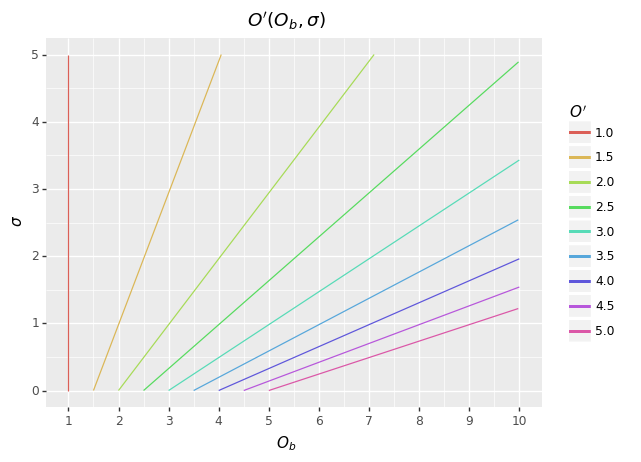
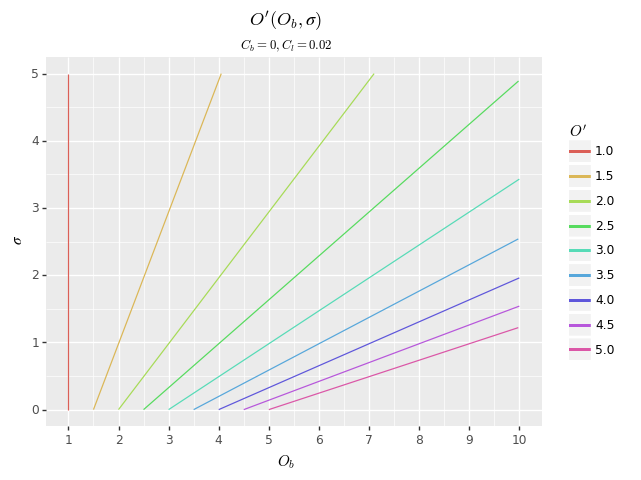
Editing.

diff --git a/images/matched-betting/plots.py b/images/matched-betting/plots.py
@@ -6,12 +6,16 @@ import numpy as np
 import pandas as pd
 import plotnine as gg
 import warnings
+import matplotlib as mpl
 
 # defaults
 Cb = 0
 Cl = 0.02
 
+
 C = (1 - Cb) * (1 - Cl)
+
+commission_string = 'C_b = %g, C_l = %g' % (Cb, Cl)
 
 # math
 
@@ -56,6 +60,9 @@ def Opr_Pf(Opr):
 def dollars(s):
     return '$%s$' % (s,)
 
+def titles(t, s=commission_string): # title, hacky subtitle
+    return gg.ggtitle('$%s$\n${}_{%s}$' % (t, s))
+
 def colors(name):
     return gg.scale_color_hue(name=dollars(name),
                               labels=lambda l: ['%.1f' % x for x in l])
@@ -88,13 +95,16 @@ def concat_map(f, cat, l):
     return ret
 
 def main():
+    mpl.rc('mathtext', fontset='cm')
+
     warnings.filterwarnings('ignore', r'geom_\w+: Removed \d+ rows')
     warnings.filterwarnings('ignore', r'Saving .+ x .+ in image')
     warnings.filterwarnings('ignore', r'Filename: .+\.png')
 
     df = concat_map(Pf_Ob_Ol, 'P_f', np.linspace(0.1, 1, 10))
     (gg.ggplot(df, gg.aes('O_b', 'O_l', group='P_f', color='P_f'))
-     + gg.ggtitle(dollars('P_f(O_b, O_l)'))
+     # + gg.ggtitle('$P_f(O_b, O_l)$\n${}_{C_b = 0, C_l = 0.02}$')
+     + titles('P_f(O_b, O_l)')
      + colors('P_f')
      + labs('O_b', 'O_l')
      + limits((1, 10))
@@ -105,7 +115,7 @@ def main():
 
     df = concat_map(Pf_Ob_σ, 'P_f', np.linspace(0.1, 1, 10))
     (gg.ggplot(df, gg.aes('O_b', 'σ', group='P_f', color='P_f'))
-     + gg.ggtitle(dollars('P_f(O_b, σ)'))
+     + titles('P_f(O_b, σ)')
      + colors('P_f')
      + labs('O_b', 'σ')
      + limits((1, 10), (0, 5))
@@ -114,7 +124,7 @@ def main():
 
     df = concat_map(Pq_Ob_Ol, 'P_q', np.linspace(-0.9, 0, 10))
     (gg.ggplot(df, gg.aes('O_b', 'O_l', group='P_q', color='P_q'))
-     + gg.ggtitle(dollars('P_q(O_b, O_l)'))
+     + titles('P_q(O_b, O_l)')
      + colors('P_q')
      + labs('O_b', 'O_l')
      + limits((1, 10))
@@ -125,7 +135,7 @@ def main():
 
     df = concat_map(Pq_Ob_σ, 'P_q', np.linspace(-0.9, 0, 10))
     (gg.ggplot(df, gg.aes('O_b', 'σ', group='P_q', color='P_q'))
-     + gg.ggtitle(dollars('P_q(O_b, σ)'))
+     + titles('P_q(O_b, σ)')
      + colors('P_q')
      + labs('O_b', 'σ')
      + limits((1, 10), (0, 5))
@@ -134,7 +144,7 @@ def main():
 
     df = concat_map(Opr_Ob_Ol, 'Opr', np.linspace(1, 5, 9))
     (gg.ggplot(df, gg.aes('O_b', 'O_l', group='Opr', color='Opr'))
-     + gg.ggtitle(dollars("O'(O_b, O_l)"))
+     + titles("O'(O_b, O_l)")
      + colors("O'")
      + labs('O_b', 'Ol')
      + limits((1, 10), (1, 10))
@@ -145,7 +155,7 @@ def main():
 
     df = concat_map(Opr_Ob_σ, 'Opr', np.linspace(1, 5, 9))
     (gg.ggplot(df, gg.aes('O_b', 'σ', group='Opr', color='Opr'))
-     + gg.ggtitle(dollars("O'(O_b, σ)"))
+     + titles("O'(O_b, σ)")
      + colors("O'")
      + labs('O_b', 'σ')
      + limits((1, 10), (0, 5))
@@ -155,7 +165,7 @@ def main():
     df = (pd.DataFrame({'Opr': np.linspace(1, 20, 91)})
             .assign(Pf=lambda x: Opr_Pf(x.Opr)))
     (gg.ggplot(df, gg.aes('Opr', 'Pf'))
-     + gg.ggtitle(dollars("P_f(O')"))
+     + titles("P_f(O')")
      + labs("O'", 'P_f')
      + limits((1, 20), (0, 1),
               xbreaks=np.linspace(2, 20, 10),

diff --git a/drafts/matched-betting.md b/drafts/matched-betting.md
@@ -98,7 +98,7 @@ We can look at these functions graphically:
 <a href="/images/matched-betting/Pf_Ob_Ol.png"><img src="/images/matched-betting/Pf_Ob_Ol.png" alt="(Graph of P_f(O_b, O_l))" style="width: 45%"></a>
 <a href="/images/matched-betting/Pq_Ob_Ol.png"><img src="/images/matched-betting/Pq_Ob_Ol.png" alt="(Graph of P_q(O_b, O_l))" style="width: 45%"></a>
 
-*(images link to full-size versions)*
+*(all images link to full-size versions)*
 
 each line represents a contour of the function, a set of points that all have the same profit. The sets of contours look superficially similar, but they're generally steeper for a free bet. In both cases, profit increases with $O_b$ and decreases with $O_l$.
 
@@ -108,6 +108,9 @@ We can reparameterise in terms of $O_b$ and $σ = O_l - O_b$, the spread between
         P_q &= C^+ { O_b + C_b/(1 - C_b) \over O_b + σ - C_l } - 1  \\
         P_f &= C^+ { O_b - 1 \over O_b + σ - C_l }.
     \end{align*} $$
+
+<a href="/images/matched-betting/Pf_Ob_σ.png"><img src="/images/matched-betting/Pf_Ob_σ.png" alt="(Graph of P_f(O_b, σ))" style="width: 45%"></a>
+<a href="/images/matched-betting/Pq_Ob_σ.png"><img src="/images/matched-betting/Pq_Ob_σ.png" alt="(Graph of P_q(O_b, σ))" style="width: 45%"></a>
 
 These are more distinct. Looking at these graphs, it seems that for a qualifying bet, having low $σ$ is more significant than having high $O_b$; but for a free bet, having high $O_b$ is more significant than having low $σ$. We'll make this more precise later.
 
